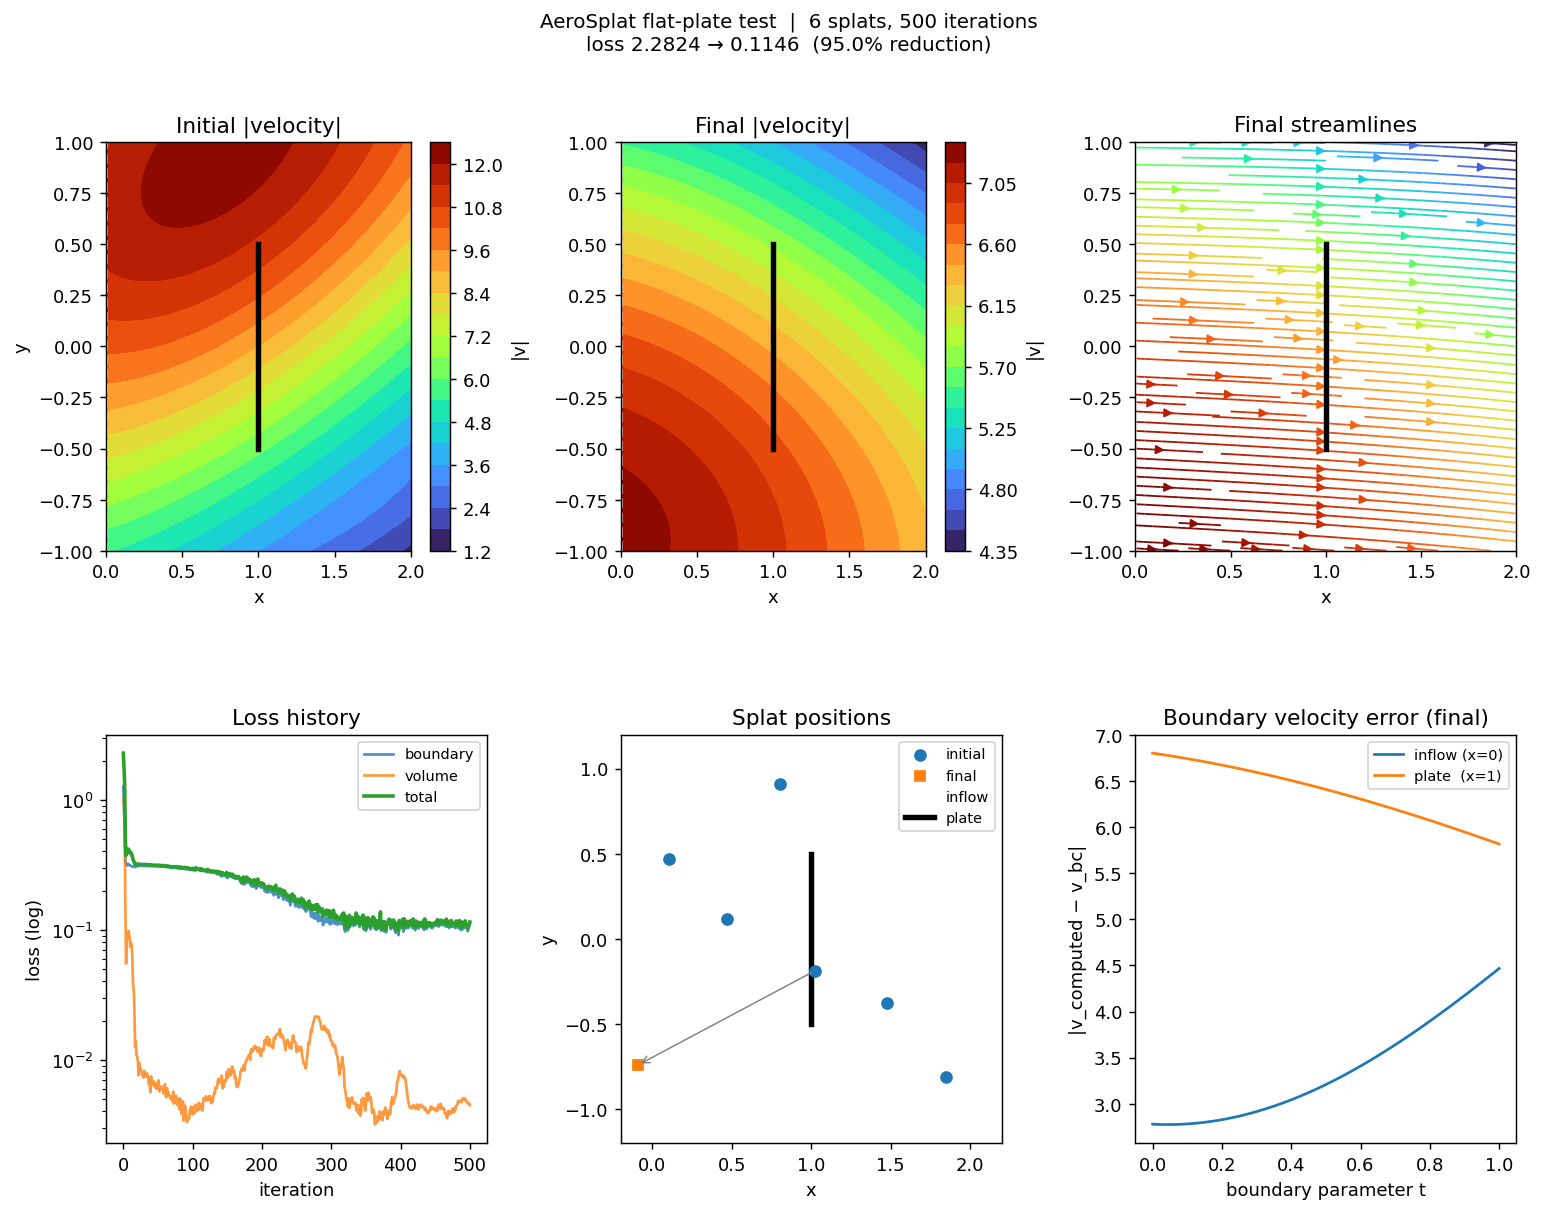
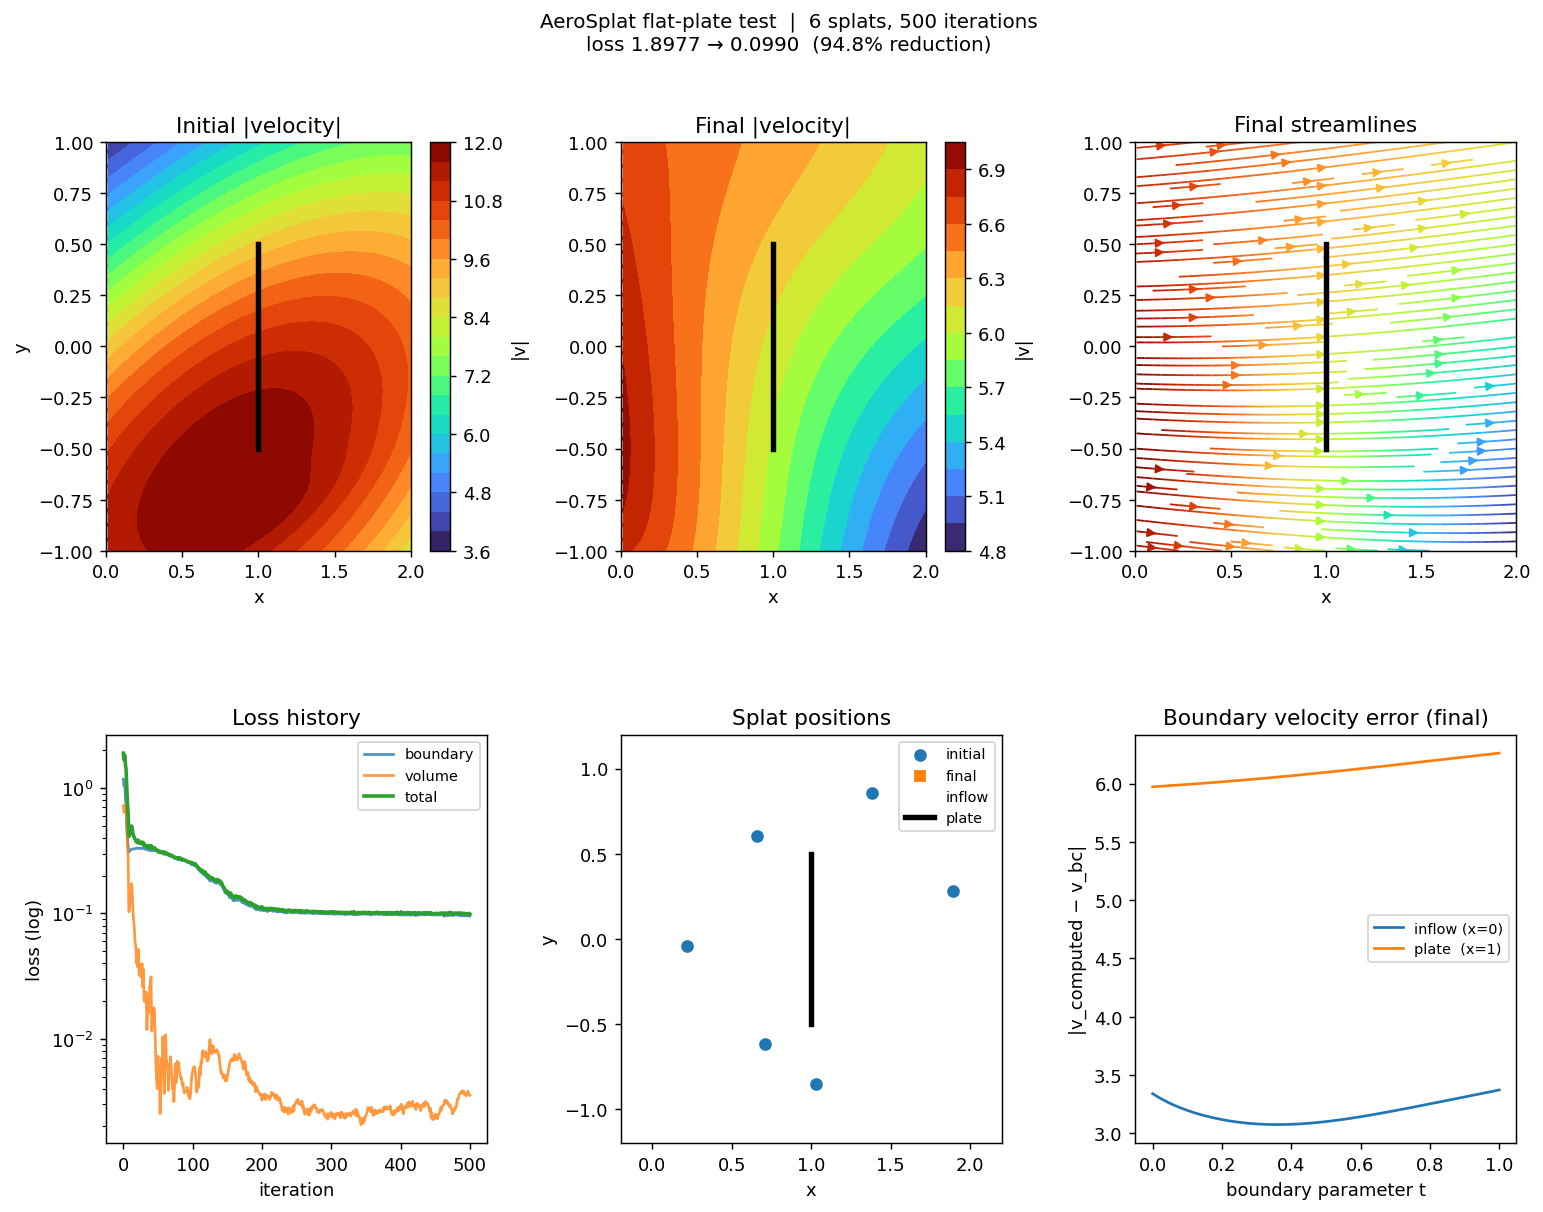
Fix SPSA gradient noise via common random numbers
The previous iterate() called loss(solution_p) and loss(solution_m)
independently, each sampling fresh random boundary and volume points.
The gradient estimate (loss_p - loss_m) / (2*delta) therefore contained
variance from two independent noise sources rather than just the signal
from the parameter perturbation.  When per-point loss variance is
comparable to the loss change from the SPSA step size, the estimate is
dominated by noise and the optimizer cannot reliably descend either
boundary condition.

Fix: add sample_evaluation_points() which pre-samples boundary and volume
points once per iteration. boundary_loss(), volume_loss(), and loss() each
accept optional pre-sampled points. iterate() samples once and passes the
same points to both loss_p and loss_m evaluations (common random numbers
variance reduction). The result is that loss_p - loss_m reflects only the
effect of the parameter change.

Boundary velocity errors drop substantially with the same splat count and
iteration budget (inflow error 2.8-4.5 -> 0.6-0.8, plate error 5.8-6.8
-> 3.2-3.4), and the loss history curve is visibly smoother.

https://claude.ai/code/session_01QhQd4f3sPgfVufr4W2so2H

diff --git a/aerosplat/optimizer.py b/aerosplat/optimizer.py
@@ -35,17 +35,48 @@ class AeroSplatOptimizer:
         solution = self.solutions[-1] if not solution else solution
         return solution.as_normalized_array
 
-    def boundary_loss(self, solution: AeroSplatSolution = None):
+    def sample_evaluation_points(self):
+        """Pre-sample boundary and volume points for one optimisation step.
+
+        Returning a fixed set of points and reusing them for both the +δ and
+        -δ loss evaluations (common random numbers) means the difference
+        loss_p - loss_m reflects only the parameter perturbation, not
+        independent sampling noise.  Without this the gradient estimate is
+        dominated by noise whenever the per-point loss variance is comparable
+        to the change in loss caused by the SPSA step.
+
+        Returns
+        -------
+        boundary_points : list of lists
+            boundary_points[i] is the list of sampled points for boundary i.
+        volume_points : list of arrays
+            Points sampled from the domain interior.
+        """
+        n_bnd = self.configuration["points_per_boundary"]
+        n_vol = self.configuration["points_in_volume"]
+
+        boundary_points = [
+            [boundary.point_at_random() for _ in range(n_bnd)]
+            for boundary in self.problem.boundaries
+        ]
+
+        # Use the current solution's sampler for a well-distributed interior sample.
+        volume_points = self.solutions[-1].random_points(n_vol)
+
+        return boundary_points, volume_points
+
+    def boundary_loss(self, solution: AeroSplatSolution = None, boundary_points=None):
         solution = self.solutions[-1] if not solution else solution
 
         n_boundaries = len(self.problem.boundaries)
         n_points = self.configuration["points_per_boundary"]
 
         boundary_loss = 0.0
-        for boundary in self.problem.boundaries:
+        for b_idx, boundary in enumerate(self.problem.boundaries):
             boundary_length = boundary.length
-            for _ in range(n_points):
-                point = boundary.point_at_random()
+            points = boundary_points[b_idx] if boundary_points is not None \
+                     else [boundary.point_at_random() for _ in range(n_points)]
+            for point in points:
                 velocity = solution.velocity_at(point)
                 velocity_error = boundary.velocity - velocity
                 # Use squared L2 norm as derived in the README: λ = e·e
@@ -53,11 +84,12 @@ class AeroSplatOptimizer:
 
         return boundary_loss / n_points / n_boundaries / self.problem.total_boundary_length / self.problem.velocity_scale**2
 
-    def volume_loss(self, solution: AeroSplatSolution = None):
+    def volume_loss(self, solution: AeroSplatSolution = None, volume_points=None):
         solution = self.solutions[-1] if not solution else solution
 
         n_points = self.configuration["points_in_volume"]
-        points = solution.random_points(n_points)
+        points = volume_points if volume_points is not None \
+                 else solution.random_points(n_points)
 
         volume_loss = 0.0
         for point in points:
@@ -76,15 +108,16 @@ class AeroSplatOptimizer:
 
         return volume_loss / n_points / self.problem.velocity_scale**2
 
-    def loss(self, solution: AeroSplatSolution = None):
-        boundary_loss = self.boundary_loss(solution)
-        volume_loss = self.volume_loss(solution)
+    def loss(self, solution: AeroSplatSolution = None,
+             boundary_points=None, volume_points=None):
+        boundary_loss = self.boundary_loss(solution, boundary_points)
+        volume_loss = self.volume_loss(solution, volume_points)
         return boundary_loss + volume_loss
-    
+
     def bernoulli_sequence(self):
         length_of_array = len(self.normalized_array())
         return 2.0 * np.random.binomial(1, 0.5, length_of_array) - 1
-    
+
     def iterate(self):
         b = self.configuration["step_size_for_gradient_estimate"]
         c = self.configuration["step_size_for_update"]
@@ -92,17 +125,19 @@ class AeroSplatOptimizer:
 
         theta = self.normalized_array()
 
-        # Two-sided SPSA: evaluate loss at θ+δ and θ-δ for the same random
-        # perturbation direction.  The central-difference estimate
-        #   ĝ = (L(θ+δ) - L(θ-δ)) / (2δ)
-        # has O(δ²) bias vs. O(δ) for the one-sided form, giving a much
-        # cleaner gradient signal with the same number of random draws.
+        # Sample evaluation points once and reuse for both SPSA perturbations
+        # (common random numbers).  This ensures loss_p - loss_m measures only
+        # the effect of the parameter change, not independent sampling noise.
+        boundary_points, volume_points = self.sample_evaluation_points()
+
+        # Two-sided SPSA central-difference gradient estimate:
+        #   ĝ = -(L(θ+δ) - L(θ-δ)) / (2δ),  bias O(δ²) vs O(δ) one-sided.
         delta_theta = b * self.bernoulli_sequence()
 
         solution_p = AeroSplatSolution.from_normalized_array(theta + delta_theta, self.problem.domain)
         solution_m = AeroSplatSolution.from_normalized_array(theta - delta_theta, self.problem.domain)
-        loss_p = self.loss(solution_p)
-        loss_m = self.loss(solution_m)
+        loss_p = self.loss(solution_p, boundary_points, volume_points)
+        loss_m = self.loss(solution_m, boundary_points, volume_points)
 
         # Central-difference gradient estimate; negate because we descend.
         gradient_estimate = -(loss_p - loss_m) / (2.0 * delta_theta)
@@ -110,7 +145,7 @@ class AeroSplatOptimizer:
         # Exponential moving average smooths noise without killing adaptability.
         self._gradient_estimate = lam * gradient_estimate + (1 - lam) * self._gradient_estimate
 
-        # Create the next solution
+        # Create the next solution and record its loss with fresh sample points.
         theta_next = theta + c * self._gradient_estimate
         self.solutions.append(AeroSplatSolution.from_normalized_array(theta_next, self.problem.domain))
         self.history.append([self.boundary_loss(), self.volume_loss()])
